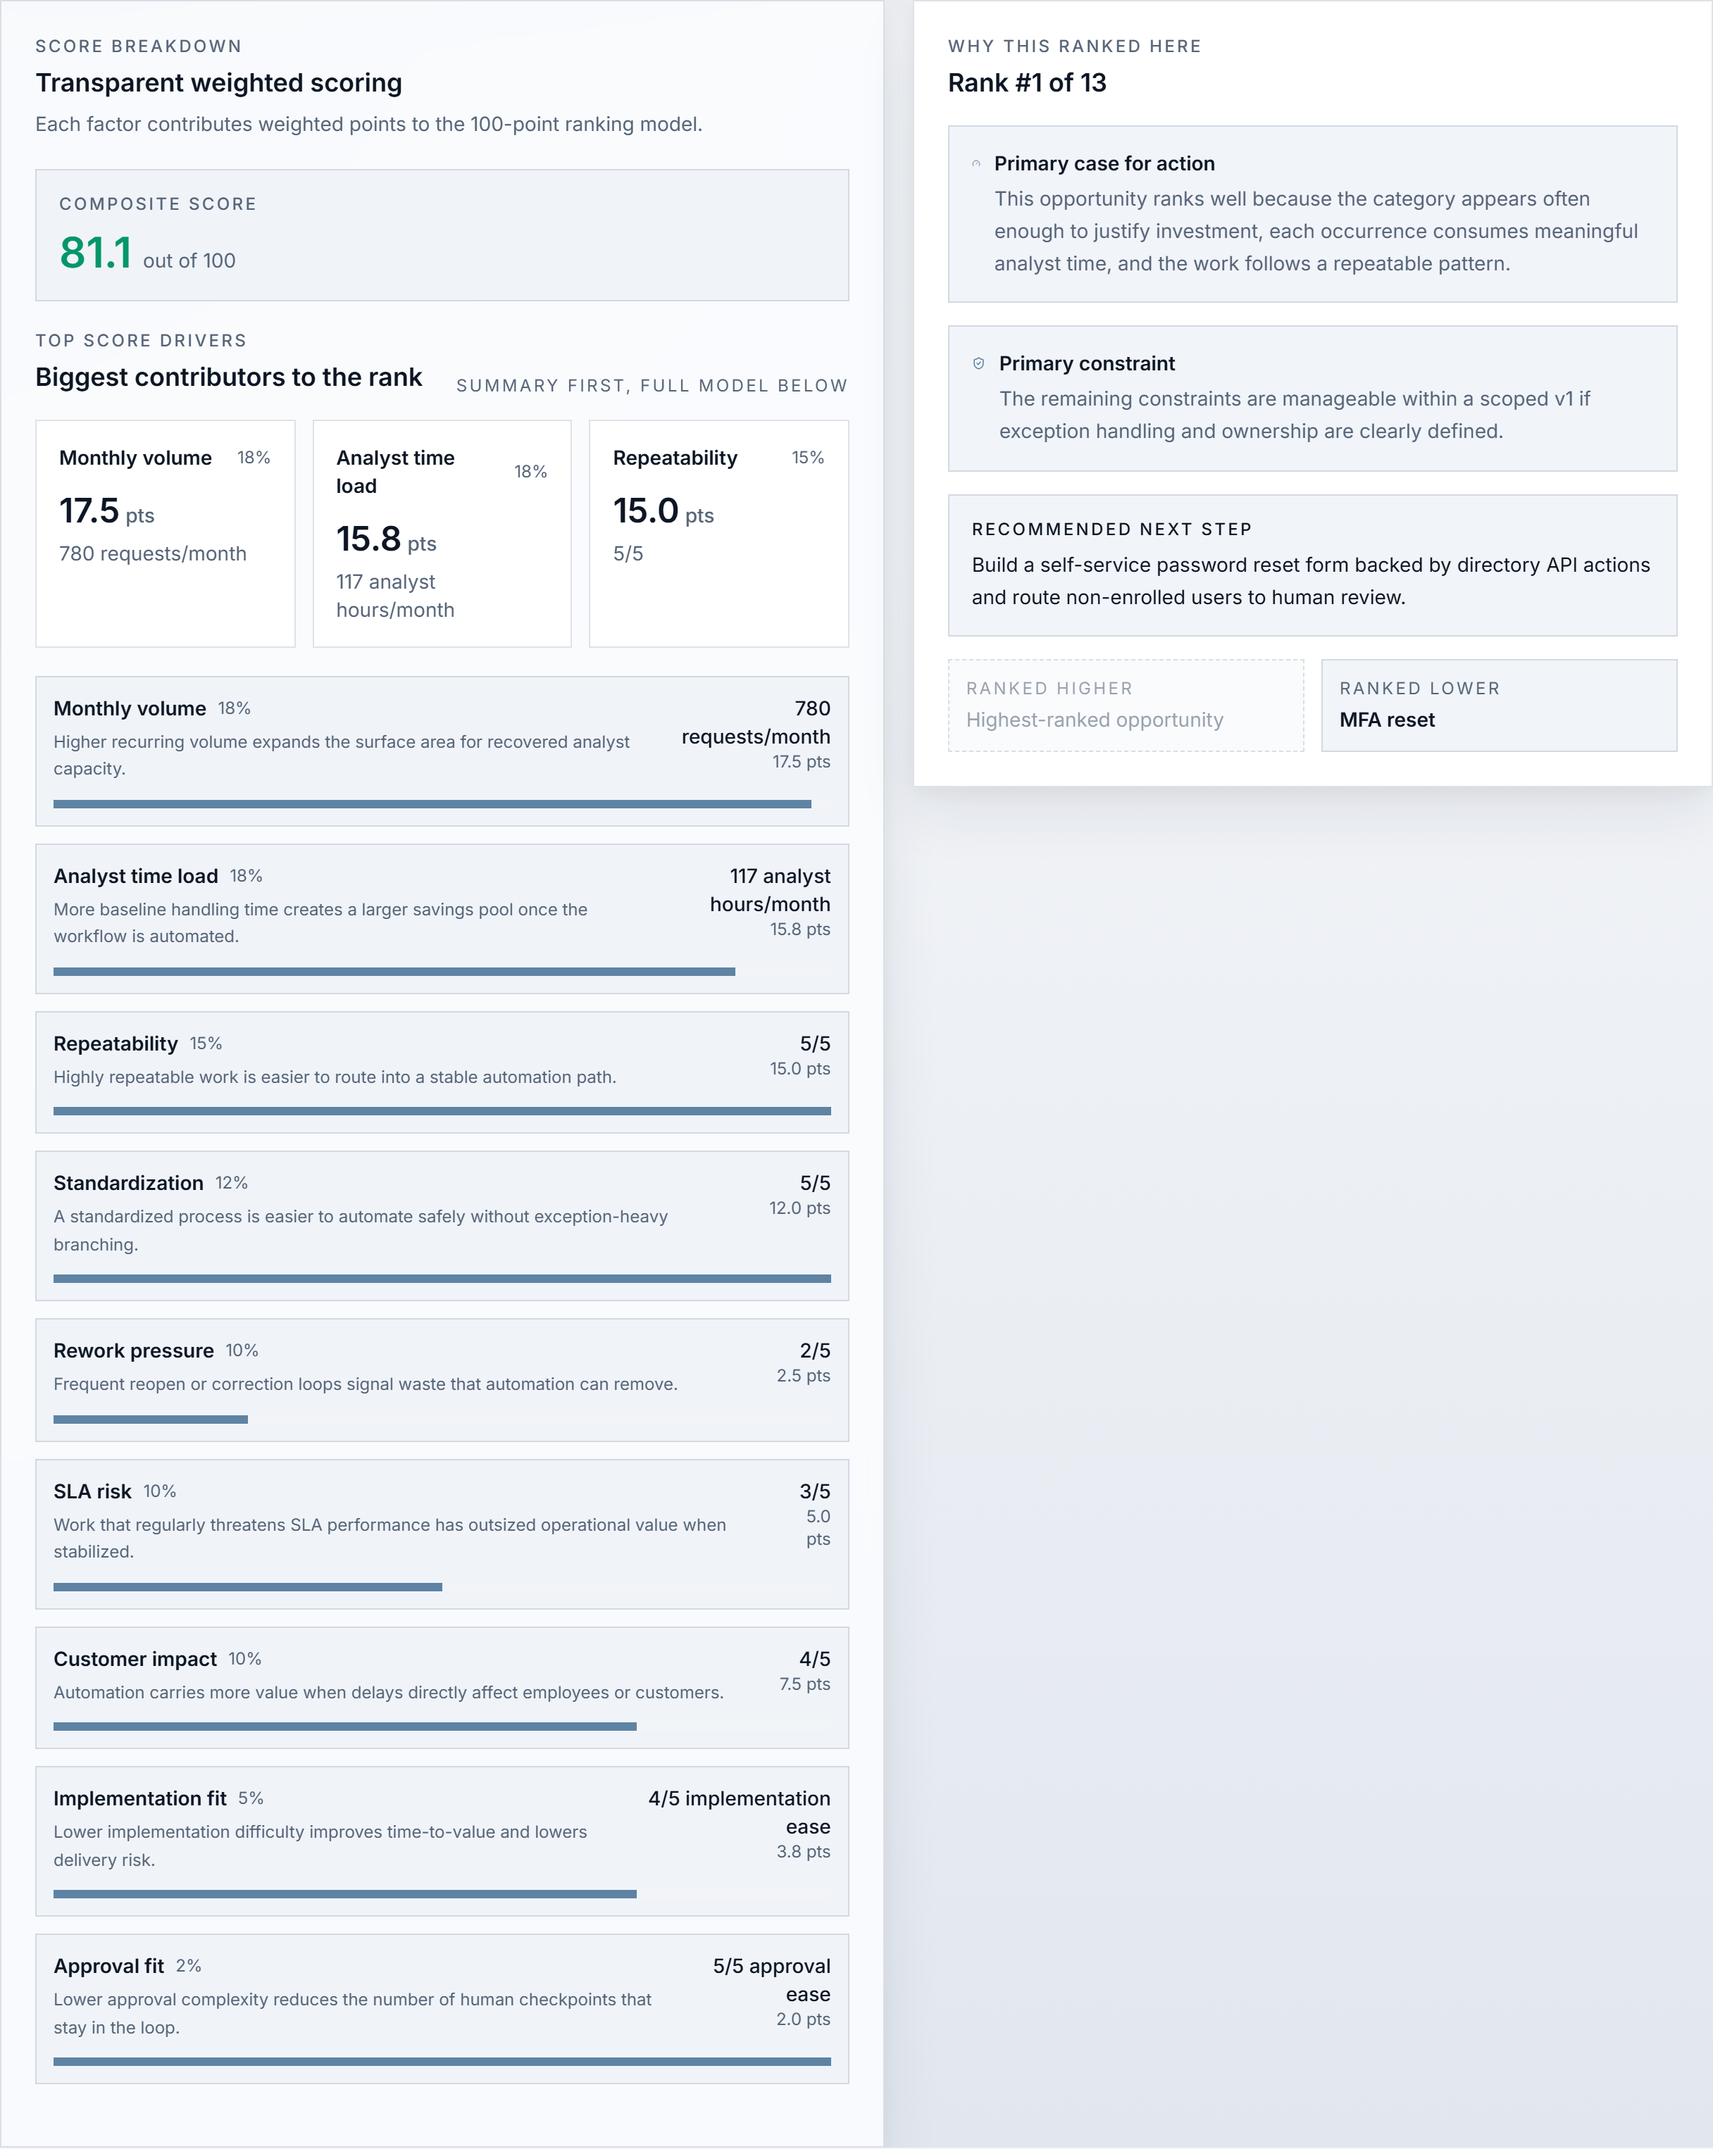
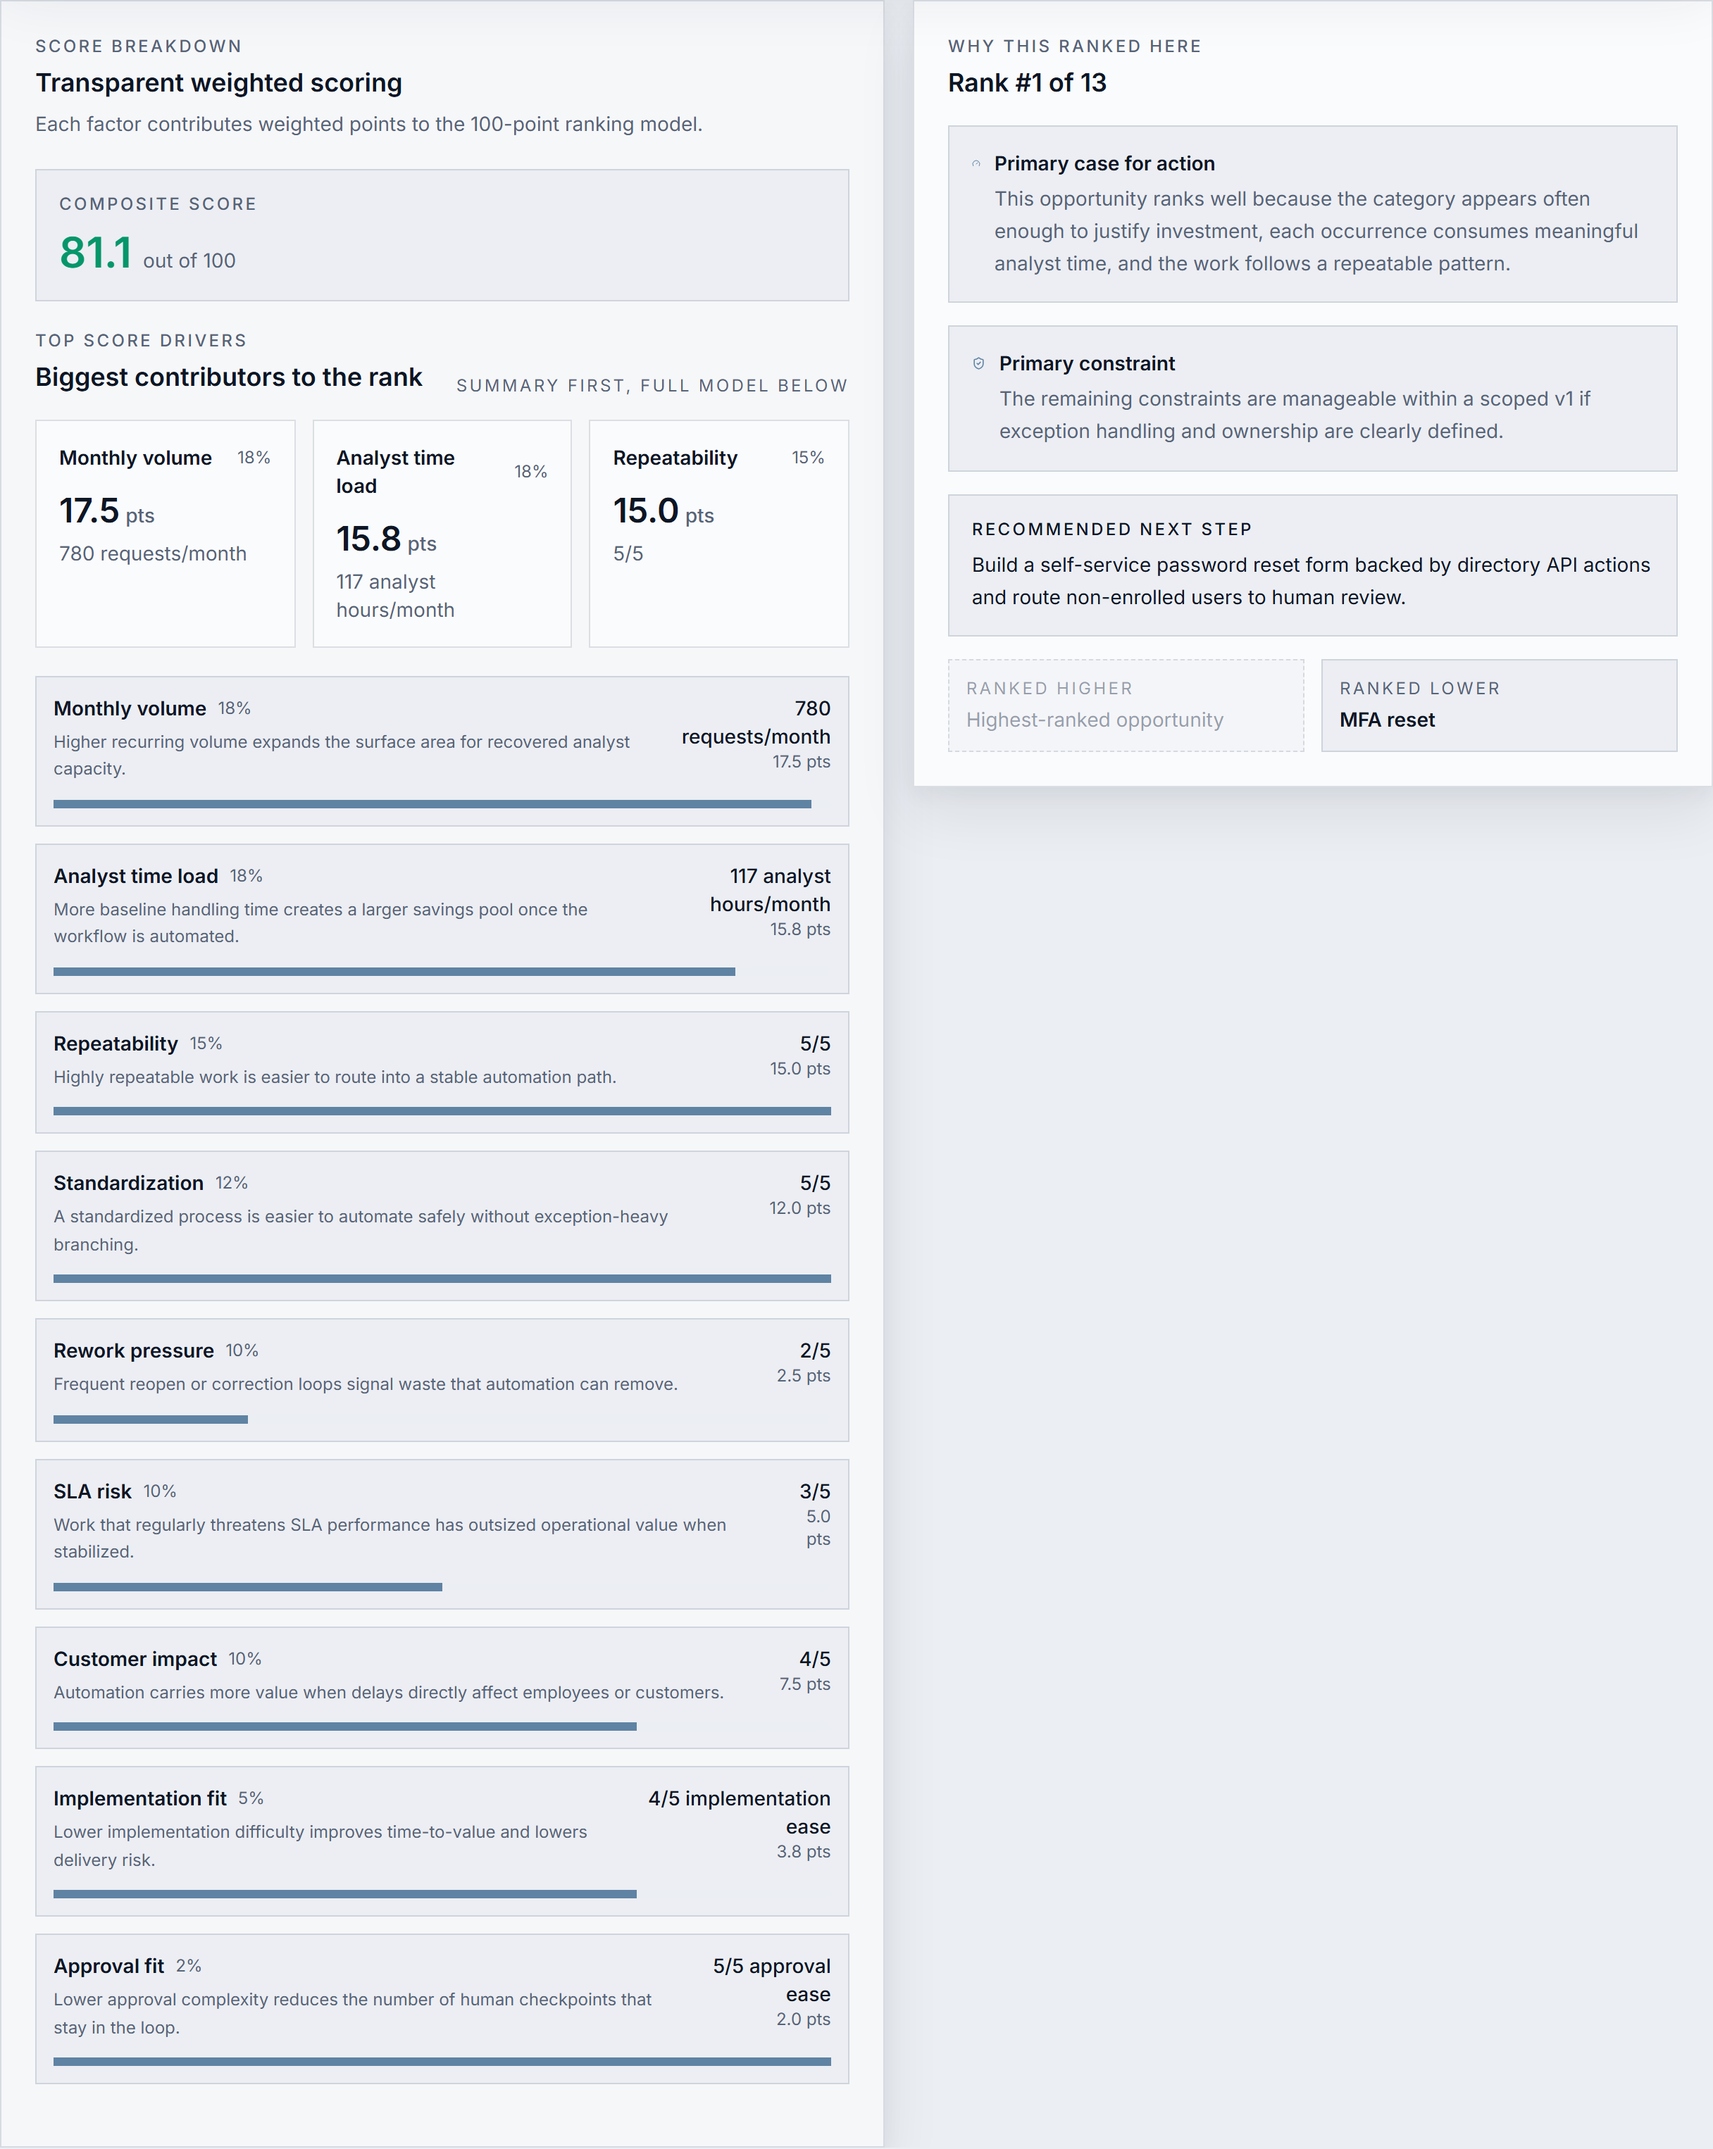
style: remove gradients and backdrop-blur, flatten to solid gray background

Changed region(s): [[0.4375, 0.4047, 0.4688, 0.4358], [0.0312, 0.4047, 0.0625, 0.4358]]

diff --git a/src/app/globals.css b/src/app/globals.css
@@ -1,11 +1,11 @@
 @import "tailwindcss";
 
 :root {
-  --background: #f2f4f7;
-  --background-strong: #e2e7ef;
-  --surface: rgba(251, 252, 254, 0.9);
-  --surface-subtle: rgba(239, 243, 248, 0.9);
-  --surface-elevated: rgba(255, 255, 255, 0.98);
+  --background: #ebeef2;
+  --background-strong: #e0e4ea;
+  --surface: #f6f7f9;
+  --surface-subtle: #eceef3;
+  --surface-elevated: #fafbfc;
   --foreground: #0d1624;
   --muted-foreground: #566477;
   --line: rgba(79, 94, 118, 0.18);
@@ -113,33 +113,10 @@ html {
 
 body {
   min-height: 100vh;
-  background-color: var(--background);
-  background-image:
-    radial-gradient(circle at top left, var(--ambient-primary) 0%, transparent 34%),
-    radial-gradient(circle at 100% 0%, var(--ambient-secondary) 0%, transparent 24%),
-    linear-gradient(
-      180deg,
-      color-mix(in srgb, var(--background) 92%, var(--surface-elevated) 8%) 0%,
-      var(--background) 34%,
-      var(--background-strong) 100%
-    );
-  background-attachment: fixed;
+  background: var(--background);
   color: var(--foreground);
   font-family: var(--font-inter), system-ui, sans-serif;
   text-rendering: optimizeLegibility;
-}
-
-body::before {
-  content: "";
-  position: fixed;
-  inset: 0;
-  pointer-events: none;
-  background-image:
-    linear-gradient(rgba(255, 255, 255, 0.035) 1px, transparent 1px),
-    linear-gradient(90deg, rgba(255, 255, 255, 0.035) 1px, transparent 1px);
-  background-size: 72px 72px;
-  mask-image: linear-gradient(180deg, rgba(0, 0, 0, 0.65), transparent 78%);
-  opacity: 0.35;
 }
 
 ::selection {

diff --git a/src/components/ui/app-shell.tsx b/src/components/ui/app-shell.tsx
@@ -14,7 +14,7 @@ export function AppShell({ children }: AppShellProps) {
         {children}
       </main>
 
-      <footer className="border-t border-line bg-background/65 backdrop-blur-sm">
+      <footer className="border-t border-line bg-background">
         <div className="mx-auto flex max-w-7xl flex-col gap-2 px-4 py-6 text-xs text-muted-foreground sm:px-6 lg:flex-row lg:items-center lg:justify-between lg:px-8">
           <p>
             Built to answer one decision-support question well: what should we

diff --git a/src/components/ui/app-shell-header.tsx b/src/components/ui/app-shell-header.tsx
@@ -3,7 +3,7 @@ import { ThemeToggle } from "./theme-toggle";
 
 export function AppShellHeader() {
   return (
-    <header className="sticky top-0 z-30 border-b border-line bg-background/84 backdrop-blur-xl">
+    <header className="sticky top-0 z-30 border-b border-line bg-background">
       <nav
         aria-label="Main navigation"
         className="mx-auto flex max-w-7xl items-center justify-between px-4 py-4 sm:px-6 lg:px-8"

diff --git a/src/components/ui/surface-card.tsx b/src/components/ui/surface-card.tsx
@@ -11,7 +11,7 @@ export function SurfaceCard({
 }: SurfaceCardProps) {
   return (
     <div
-      className={`relative overflow-hidden rounded-card border border-line bg-surface p-5 shadow-card backdrop-blur-sm sm:p-6 ${className}`}
+      className={`rounded-card border border-line bg-surface p-5 shadow-card sm:p-6 ${className}`}
     >
       {children}
     </div>
